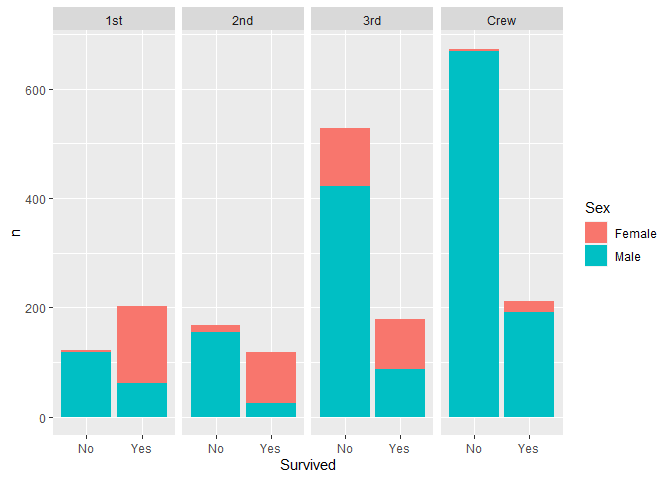
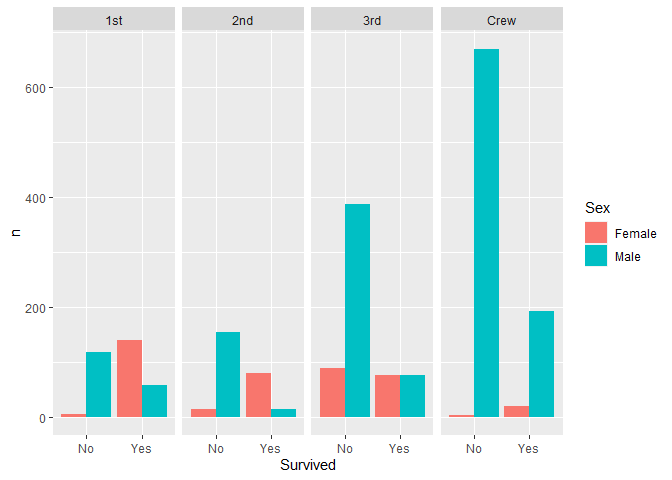
Resubmit challenge 1

diff --git a/challenges/c01-titanic-assignment.md b/challenges/c01-titanic-assignment.md
@@ -1,6 +1,6 @@
 RMS Titanic
 ================
-(Your name here)
+Miles Mezaki
 2020-
 
 - <a href="#grading-rubric" id="toc-grading-rubric">Grading Rubric</a>
@@ -87,10 +87,10 @@ library(tidyverse)
 ```
 
     ## ── Attaching packages ─────────────────────────────────────── tidyverse 1.3.2 ──
-    ## ✔ ggplot2 3.4.0      ✔ purrr   1.0.1 
-    ## ✔ tibble  3.1.8      ✔ dplyr   1.0.10
-    ## ✔ tidyr   1.2.1      ✔ stringr 1.5.0 
-    ## ✔ readr   2.1.3      ✔ forcats 0.5.2 
+    ## ✔ ggplot2 3.4.0     ✔ purrr   1.0.1
+    ## ✔ tibble  3.1.8     ✔ dplyr   1.1.0
+    ## ✔ tidyr   1.3.0     ✔ stringr 1.5.0
+    ## ✔ readr   2.1.3     ✔ forcats 1.0.0
     ## ── Conflicts ────────────────────────────────────────── tidyverse_conflicts() ──
     ## ✖ dplyr::filter() masks stats::filter()
     ## ✖ dplyr::lag()    masks stats::lag()
@@ -128,6 +128,7 @@ glimpse(df_titanic)
 
 - Class, sex, age, and whether they survived are the variables of the
   titanic dataframe
+- n indicates the number of people in each category
 
 ### **q2** Skim the [Wikipedia article](https://en.wikipedia.org/wiki/RMS_Titanic) on the RMS Titanic, and look for a total count of souls aboard. Compare against the total computed below. Are there any differences? Are those differences large or small? What might account for those differences?
 
@@ -151,9 +152,9 @@ df_titanic %>% summarize(total = sum(n))
     a significant difference, but there were 23 or more passengers
     unaccounted for in the dataframe.
 - If yes, what might account for those differences?
-  - The death toll was not completely clear, and recording issues such
-    as the use of aliases and trip cancellations made the roster of
-    passengers difficult to sort.
+  - Possible reasons: the death toll was not completely clear, and
+    recording issues such as the use of aliases and trip cancellations
+    could have made the roster of passengers difficult to sort.
 
 ### **q3** Create a plot showing the count of persons who *did* survive, along with aesthetics for `Class` and `Sex`. Document your observations below.
 
@@ -163,7 +164,7 @@ df_titanic %>% summarize(total = sum(n))
 ## TASK: Visualize counts against `Class` and `Sex`
 df_titanic %>%
   ggplot() +
-  geom_col(mapping = aes(x = Survived, y = n, fill = Sex)) +
+  geom_col(mapping = aes(x = Survived, y = n, fill = Sex), position = "dodge") +
   facet_grid(~ Class)
 ```
 
@@ -171,7 +172,7 @@ df_titanic %>%
 
 **Observations**:
 
-- Many more females survived than men did in classes 1-3, and more
+- Many more females survived than men did in classes 1 and 2, and more
   females survived than died even in the crew. The reason for this
   discrepancy could be the disproportionate number of men compared to
   females among Titanic staff.
@@ -224,12 +225,13 @@ df_prop
 
 ``` r
 df_prop %>%
+  filter(Survived == "Yes") %>%
   ggplot() +
-  geom_col(mapping = aes(x = Survived, y = Prop, fill = Sex)) +
+  geom_col(mapping = aes(x = Sex, y = Prop)) +
   facet_grid(~ Class)
 ```
 
-    ## Warning: Removed 4 rows containing missing values (`position_stack()`).
+    ## Warning: Removed 2 rows containing missing values (`position_stack()`).
 
 ![](c01-titanic-assignment_files/figure-gfm/q4-task-1.png)<!-- -->
 
@@ -268,12 +270,13 @@ names(myColors) <- levels(df_titanic$Age)
 custom_colors <- scale_colour_manual(name = "Age", values = myColors)
 
 df_prop %>%
+  filter(Survived == "Yes") %>%
   ggplot() +
-  geom_col(mapping = aes(x = Survived, y = Prop, fill = Sex, color = Age)) +
+  geom_col(mapping = aes(x = Age, y = Prop, fill = Sex), position = "dodge") +
   facet_grid(~ Class) + custom_colors
 ```
 
-    ## Warning: Removed 4 rows containing missing values (`position_stack()`).
+    ## Warning: Removed 2 rows containing missing values (`geom_col()`).
 
 ![](c01-titanic-assignment_files/figure-gfm/q5-task-1.png)<!-- -->
 
